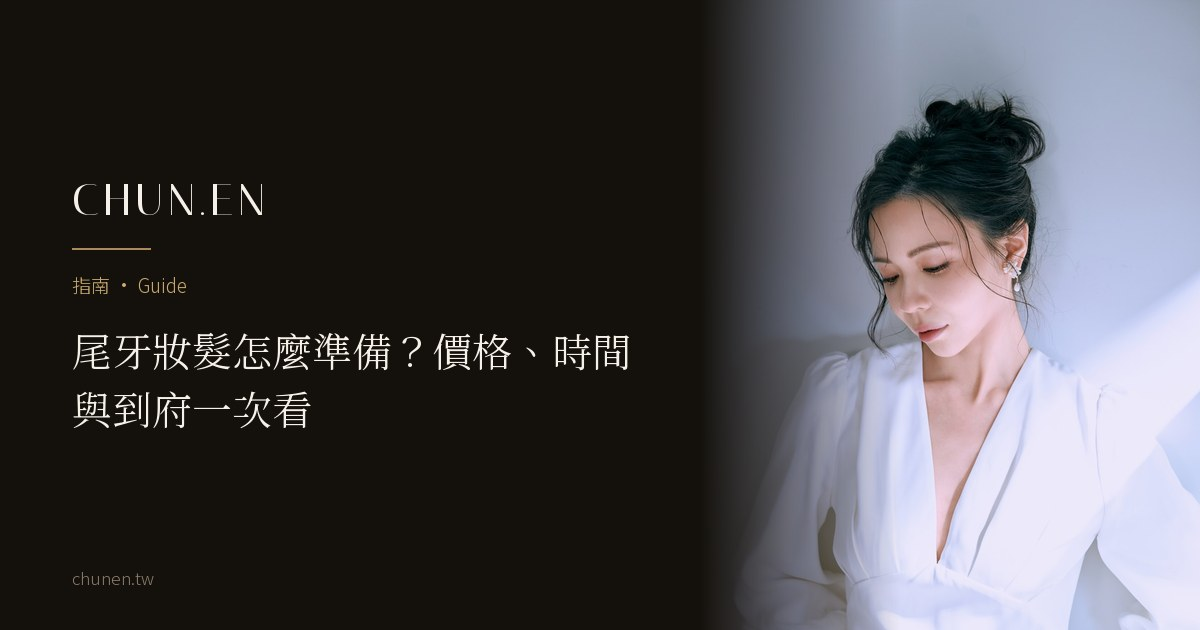
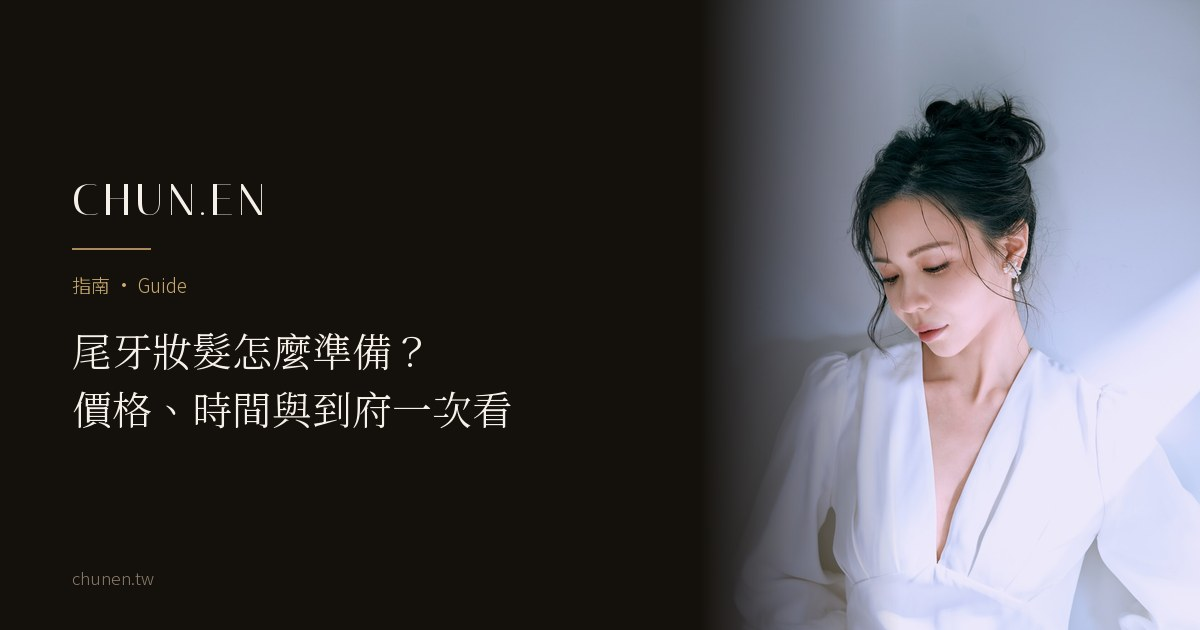
journal：審稿修正（01 標題斷句、02 補第一手觀察、03 補連結、04／05 文字、06 小標降亮度、分享卡重產）
仍全部 noindex，未公開。

Changed region(s): [[0.0617, 0.5127, 0.4317, 0.6937], [0.4625, 0.5127, 0.5242, 0.6032]]

diff --git a/journal/when-to-update-your-portrait-preview.html b/journal/when-to-update-your-portrait-preview.html
@@ -100,17 +100,17 @@
         <p>真正要看的是：</p>
         <blockquote><strong>照片和現在的本人、角色與使用需求，還對不對得上。</strong></blockquote>
         <h2>四個需要重新檢查的訊號</h2>
-        <h3 style="margin-top:1.8rem;">一、外型與辨識度明顯改變</h3>
+        <h3 style="margin-top:1.8rem;font-size:1.15rem;font-weight:400;color:var(--paper-dim);">一、外型與辨識度明顯改變</h3>
         <p>髮型、體態、眼鏡或其他外觀變化，如果已經讓現在的本人和照片有明顯差距，就值得先更新最常被看到的照片。</p>
         <p>不一定需要整組重拍。</p>
         <p>先看 LinkedIn、公司官網、人物介紹等主要識別位置，有沒有一張更接近現在本人的照片可以替換。</p>
-        <h3 style="margin-top:1.8rem;">二、角色與責任範圍改變</h3>
+        <h3 style="margin-top:1.8rem;font-size:1.15rem;font-weight:400;color:var(--paper-dim);">二、角色與責任範圍改變</h3>
         <p>升遷、創業、轉職或工作角色調整後，職稱與責任可能已經不同。</p>
         <p>如果照片與人物介紹仍是改變以前的版本，就要一起檢查。</p>
         <p>先改職稱與文字，再看照片放在新的介紹旁邊是否仍然合適。</p>
         <p>例如升主管之後，不一定要先換成一張更正式的照片。更重要的是先確認 LinkedIn、官網人物介紹、提案與照片，有沒有一起更新到現在負責的工作。</p>
         <p>完整討論可參考〈<a href="image-after-promotion.html" style="color: var(--gold-light);">升主管之後，該更新的不只職稱</a>〉。</p>
-        <h3 style="margin-top:1.8rem;">三、主要使用版位改變</h3>
+        <h3 style="margin-top:1.8rem;font-size:1.15rem;font-weight:400;color:var(--paper-dim);">三、主要使用版位改變</h3>
         <p>開始需要上媒體、登台演講、出書、進管理團隊頁，或更新官網時，原本照片可能不是「過期」，而是缺少適合新用途的構圖。</p>
         <p>例如：</p>
         <ul>
@@ -121,7 +121,7 @@
 </ul>
         <p>這種情況不一定需要全部重拍。</p>
         <p>先確認現有素材能不能重新裁切或換圖，真的缺畫面，再局部補拍。</p>
-        <h3 style="margin-top:1.8rem;">四、整體視覺方向和現在差距變大</h3>
+        <h3 style="margin-top:1.8rem;font-size:1.15rem;font-weight:400;color:var(--paper-dim);">四、整體視覺方向和現在差距變大</h3>
         <p>有些照片仍然認得出本人，也能使用，但背景、服裝、妝髮或修圖方式已經和現在的角色、品牌或常用版位差很多。</p>
         <p>這時候要看的不是「有沒有年代感」，而是：</p>
         <blockquote><strong>照片現在放進官網、LinkedIn、簡報或其他公開版位時，還合不合適。</strong></blockquote>
@@ -129,13 +129,13 @@
         <p>如果整體方向已經明顯不同，再評估重新規劃。</p>
         <h2>更新，不等於全部重拍</h2>
         <p>需要更新時，可以先分成三種處理方式。</p>
-        <h3 style="margin-top:1.8rem;">重新裁切、重新輸出或換圖</h3>
+        <h3 style="margin-top:1.8rem;font-size:1.15rem;font-weight:400;color:var(--paper-dim);">重新裁切、重新輸出或換圖</h3>
         <p>照片仍然像現在的本人，角色也沒有明顯改變，只是平台尺寸、裁切或主要使用位置不同。</p>
         <p>先從既有素材裡找適合的版本，通常比重拍更快。</p>
-        <h3 style="margin-top:1.8rem;">局部補拍</h3>
+        <h3 style="margin-top:1.8rem;font-size:1.15rem;font-weight:400;color:var(--paper-dim);">局部補拍</h3>
         <p>人物狀態仍然合適，但多了演講、媒體、管理團隊頁或其他新場景。</p>
         <p>這時候補缺少的比例、構圖或場景即可。</p>
-        <h3 style="margin-top:1.8rem;">重新規劃</h3>
+        <h3 style="margin-top:1.8rem;font-size:1.15rem;font-weight:400;color:var(--paper-dim);">重新規劃</h3>
         <p>如果本人狀態、角色、品牌方向或主要使用需求已經出現較大變化，現有照片很難再透過裁切與局部補拍解決，就值得重新規劃一組新的影像。</p>
         <p>這三種不是固定制度。</p>
         <p>它們只是幫助判斷：</p>

diff --git a/journal/image-after-promotion.html b/journal/image-after-promotion.html
@@ -186,12 +186,12 @@
         <p>先看這六個地方是不是在介紹同一個現在的你。</p>
         <p>最後的處理方式可能很簡單：有些人只需要改文字，有些人缺的是新的照片比例；角色與公開場合真的已經改變很多時，才需要重新處理服裝、妝髮與拍攝。</p>
         <p>這樣判斷，比「升主管就拍一組更正式的照片」更準確。</p>
-        <div style="border:1px dashed var(--gold-light);padding:1rem 1.2rem;margin:1.8rem 0;font-size:.92em;line-height:1.8;color:var(--paper-dim);"><strong style="color:var(--gold-light);">【審稿用，上站前移除】</strong><br><strong>【待 Zoey 補｜第一手觀察】</strong>
-        <p>上站前建議補一段真實經驗。</p>
-        <p>可以回答：</p>
-        <ul><li>有沒有客戶升主管後來找妳，原本以為自己要「拍得更像主管」？</li><li>妳實際看了之後，最先發現的問題是什麼？</li><li>最後是改文字、補版位，還是整組重新規劃？</li><li>有沒有哪個細節是客戶自己一開始完全沒注意到的？</li></ul>
-        <p>只寫真的發生過的情況。</p>
-        </div>
+        <h2>我們實際看到的情況</h2>
+        <p>升主管之後才回來補拍的人，其實不多。</p>
+        <p>比較多的，是還在等升遷、準備轉職的人。</p>
+        <p>他們來拍照，是希望在下一個機會出現之前，先被看見。</p>
+        <p>這和〈<a href="image-before-ability.html" style="color: var(--gold-light);">形象走在能力前面</a>〉談的是同一件事：新的角色還沒被驗證以前，對方會先從照片、職稱與人物介紹認識你。</p>
+        <p>所以上面這六個地方，不一定要等職稱改了才檢查。</p>
         <h2>CHUN.EN 怎麼看這件事</h2>
         <p>升主管後，不需要先把自己做得更嚴肅。</p>
         <p>先把公開資料更新到現在。</p>

diff --git a/journal/image-before-ability.html b/journal/image-before-ability.html
@@ -70,7 +70,7 @@
     <header style="padding: clamp(9rem, 16vh, 11rem) 0 clamp(2rem, 4vh, 3rem);">
       <div class="wrap article-wrap">
         <p class="hero-eyebrow rv">觀點 · Perspective</p>
-        <h1 class="rv rv-d1" style="font-weight: 300; font-size: clamp(1.9rem, 4.4vw, 3.2rem); line-height: 1.4; margin-top: 1rem;"><span style="white-space:nowrap;">「形象走在</span><span style="white-space:nowrap;">能力前面」：</span><span style="white-space:nowrap;"><em style="font-style:normal;color:var(--gold-light);">先被看見，</em></span><span style="white-space:nowrap;"><em style="font-style:normal;color:var(--gold-light);">能力才有機會</em></span><span style="white-space:nowrap;"><em style="font-style:normal;color:var(--gold-light);">被驗證</em></span></h1>
+        <h1 class="rv rv-d1" style="font-weight: 300; font-size: clamp(1.9rem, 4.4vw, 3.2rem); line-height: 1.4; margin-top: 1rem;"><span style="white-space:nowrap;">「形象走在能力前面」：</span><span style="white-space:nowrap;"><em style="font-style:normal;color:var(--gold-light);">先被看見，</em></span><span style="white-space:nowrap;"><em style="font-style:normal;color:var(--gold-light);">能力才有機會被驗證</em></span></h1>
         <p class="article-meta rv rv-d2">CHUN.EN 觀點 · 2026 · 閱讀約 6 分鐘</p>
       </div>
     </header>

diff --git a/journal/first-impression-research.html b/journal/first-impression-research.html
@@ -146,7 +146,7 @@
         <blockquote><strong>第一印象形成得很快，而且它可能影響接下來的資訊怎麼被理解。</strong></blockquote>
         <p>但它不是不能改。</p>
         <p>當真正的互動、經驗、內容與結果進來之後，對方會得到更多資料，也有機會修正最初的判斷。</p>
-        <p>這和〈形象走在能力前面〉談的是同一條線，但兩篇處理不同問題。</p>
+        <p>這和〈<a href="image-before-ability.html" style="color: var(--gold-light);">形象走在能力前面</a>〉談的是同一條線，但兩篇處理不同問題。</p>
         <p>〈形象走在能力前面〉談的是：為什麼公開形象會先出場。</p>
         <p>這篇談的是：</p>
         <blockquote><strong>第一眼出現之後，為什麼還會影響後面的理解。</strong></blockquote>

diff --git a/journal/year-end-party-hair-makeup.html b/journal/year-end-party-hair-makeup.html
@@ -84,7 +84,7 @@
         <p class="kp-t">In This Article · 本文重點</p>
         <ul>
           <li>尾牙妝髮沒有一個固定的「標準妝感」，要先看當晚是一般出席、正式活動，還是有舞台與特殊造型需求。</li>
-          <li>B.room 可先了解日常妝髮、活動妝髮與主題妝髮三種服務，實際選哪一項再依用途確認。</li>
+          <li>可先了解B.room的日常妝髮、活動妝髮與主題妝髮三種服務類別，實際選哪一項再依用途確認。</li>
           <li>如果有進場、上台或主持時間，妝髮時段要連同交通、換裝與活動流程一起安排。</li>
           <li>多人、指定地點或需要現場跟妝，都可以在詢問時一起提供需求，再由專人確認安排方式。</li>
         </ul>

diff --git a/journal/portrait-vs-personal-brand-preview.html b/journal/portrait-vs-personal-brand-preview.html
@@ -130,7 +130,7 @@
         <p>那麼拍攝以前，先把「現在主要以什麼角色出現」「主要面對誰」「照片會用在哪些地方」整理清楚，後面的服裝、妝髮與畫面方向會比較一致。</p>
         <p>定位不是把真實的自己換成另一個人。</p>
         <p>它是在拍攝之前，把這次最需要被看懂的角色與使用情境先說清楚。</p>
-        <h2>三、交付照片之後，有沒有一起處理怎麼用</h2>
+        <h2>三、交付照片之後，有沒有規劃怎麼用</h2>
         <p>另一個真正有差別的地方，是服務範圍有沒有包含影像應用。</p>
         <p>有些拍攝服務在選片、精修與交付完成後就結束。</p>
         <p>有些完整規劃則會再往下處理：</p>
